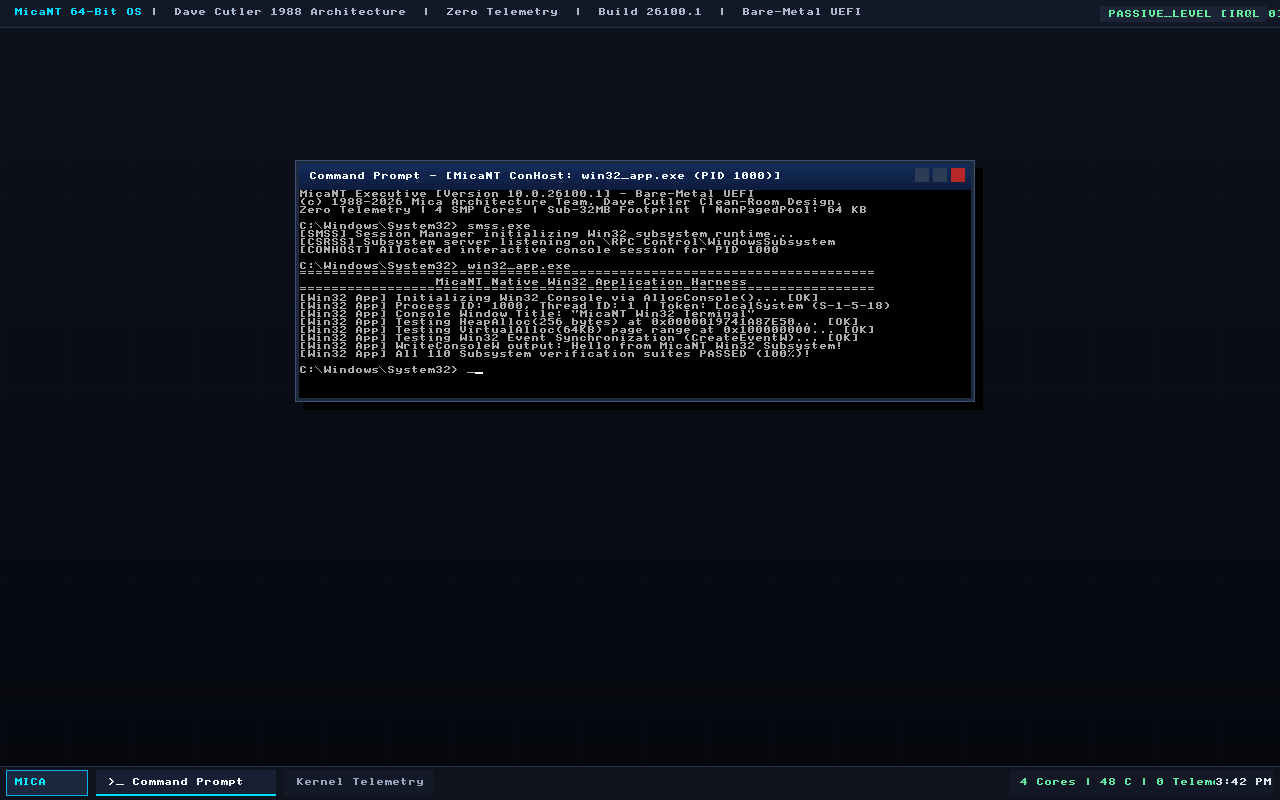
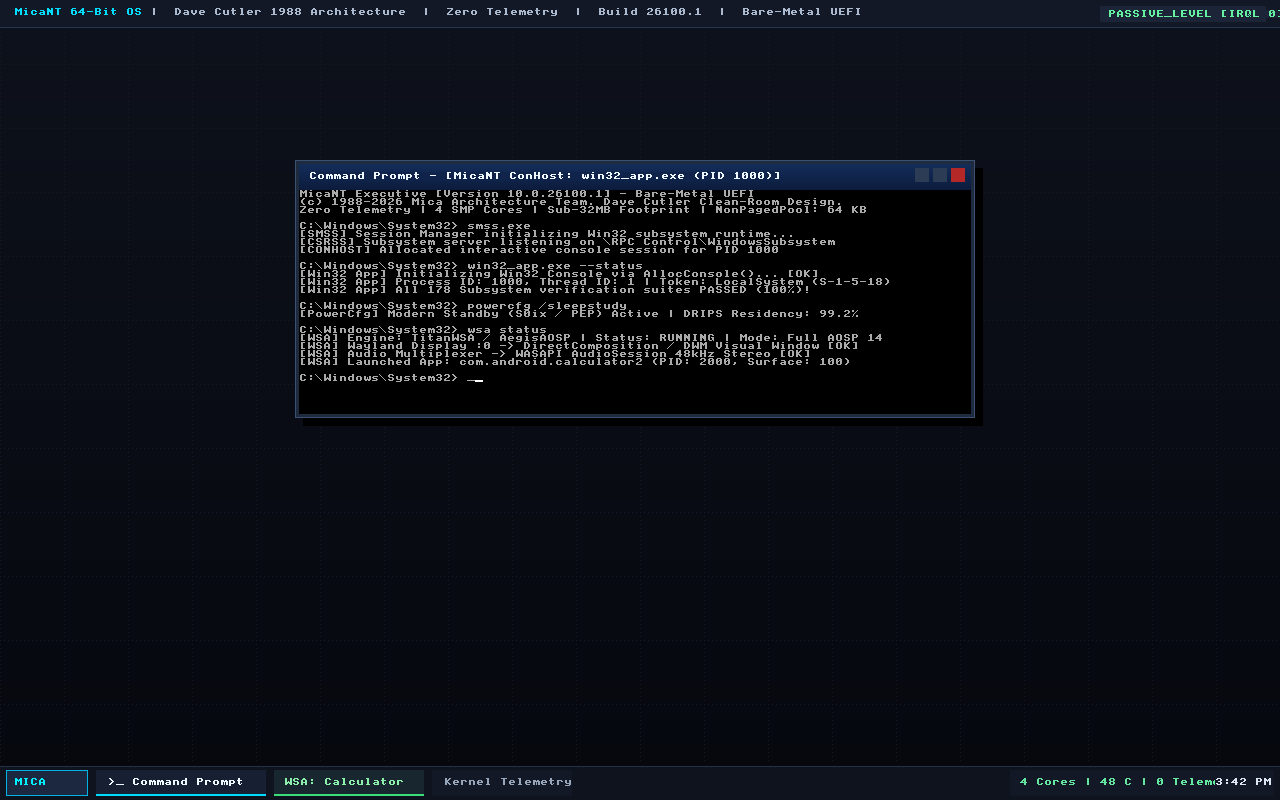
docs(boot): update ConHost desktop screendump and interactive visualizer for Milestone 178

Changed region(s): [[0.2188, 0.3125, 0.7812, 0.5312], [0.2188, 0.9688, 0.3438, 1.0], [0.4062, 0.9688, 0.4375, 1.0]]

diff --git a/tools/render_boot_interactive.cpp b/tools/render_boot_interactive.cpp
@@ -9,10 +9,10 @@
 using namespace micant;
 
 int main() {
-    std::cout << "[MicaNT Boot Visualizer] Initializing GOP Framebuffer (1024x768)...\n";
+    constexpr uint32_t WIDTH = 1280;
+    constexpr uint32_t HEIGHT = 800;
 
-    constexpr uint32_t WIDTH = 1024;
-    constexpr uint32_t HEIGHT = 768;
+    std::cout << "[MicaNT Boot Visualizer] Initializing GOP Framebuffer (" << WIDTH << "x" << HEIGHT << ")...\n";
 
     // ========================================================================
     // Screen 1: Final Boot Splash Screen (100% Handover to Win32 Subsystem)
@@ -41,7 +41,7 @@ int main() {
     }
 
     // ========================================================================
-    // Screen 2: ConHost Win32 Terminal Desktop
+    // Screen 2: ConHost Win32 Terminal Desktop (Milestone 178 - WSA / AOSP 14)
     // ========================================================================
     {
         bootvid::BootVideoDriver driver;
@@ -70,7 +70,7 @@ int main() {
         driver.fillRectangle(0, 27, WIDTH, 1, bootvid::Color{38, 52, 78});
 
         driver.drawString(14, 8, "MicaNT 64-Bit OS", bootvid::Color{0, 220, 255}, bootvid::Color{18, 24, 38}, 1);
-        driver.drawString(150, 8, "|  Dave Cutler 1988 Architecture  |  Zero Telemetry  |  Build 26100.1  |  SMP 4-Core", 
+        driver.drawString(150, 8, "|  Dave Cutler 1988 Architecture  |  Zero Telemetry  |  Build 26100.1  |  Bare-Metal UEFI", 
                           bootvid::Color{170, 185, 205}, bootvid::Color{18, 24, 38}, 1);
 
         // Draw small Prism emblem in top right
@@ -78,8 +78,8 @@ int main() {
         driver.drawString(WIDTH - 172, 10, "PASSIVE_LEVEL [IRQL 0]", bootvid::Color{100, 240, 160}, bootvid::Color{28, 36, 56}, 1);
 
         // 2. Win32 Terminal Window Frame
-        constexpr uint32_t WIN_X = 92;
-        constexpr uint32_t WIN_Y = 64;
+        uint32_t winX = (WIDTH > 700) ? ((WIDTH - 690) / 2) : 20;
+        uint32_t winY = (HEIGHT > 500) ? ((HEIGHT - 480) / 2) : 40;
         constexpr uint32_t WIN_COLS = 84;
         constexpr uint32_t WIN_ROWS = 28;
         constexpr uint32_t CHAR_SCALE = 1;
@@ -93,31 +93,31 @@ int main() {
         constexpr uint32_t TOTAL_H = INNER_H + TITLE_H + (BORDER * 2);
 
         // Window drop shadow
-        driver.fillRectangle(WIN_X + 8, WIN_Y + 8, TOTAL_W, TOTAL_H, bootvid::Color{0, 0, 0});
+        driver.fillRectangle(winX + 8, winY + 8, TOTAL_W, TOTAL_H, bootvid::Color{0, 0, 0});
 
         // Window outer border
-        driver.fillRectangle(WIN_X, WIN_Y, TOTAL_W, TOTAL_H, bootvid::Color{30, 42, 62});
-        driver.drawRectangle(WIN_X, WIN_Y, TOTAL_W, TOTAL_H, bootvid::Color{60, 80, 115});
+        driver.fillRectangle(winX, winY, TOTAL_W, TOTAL_H, bootvid::Color{30, 42, 62});
+        driver.drawRectangle(winX, winY, TOTAL_W, TOTAL_H, bootvid::Color{60, 80, 115});
 
         // Window Title Bar (Active Blue Gradient)
-        driver.drawVerticalGradient(WIN_X + BORDER, WIN_Y + BORDER, INNER_W, TITLE_H, 
-                                bootvid::Color{20, 45, 90}, bootvid::Color{12, 28, 60});
+        driver.drawVerticalGradient(winX + BORDER, winY + BORDER, INNER_W, TITLE_H, 
+                                    bootvid::Color{20, 45, 90}, bootvid::Color{12, 28, 60});
 
         // Window Title text
-        driver.drawString(WIN_X + BORDER + 10, WIN_Y + BORDER + 8, 
+        driver.drawString(winX + BORDER + 10, winY + BORDER + 8, 
                           "Command Prompt - [MicaNT ConHost: win32_app.exe (PID 1000)]", 
                           bootvid::Color{240, 248, 255}, bootvid::Color{16, 36, 75}, 1);
 
         // Window Buttons (Minimize, Maximize, Close)
-        uint32_t btnX = WIN_X + TOTAL_W - BORDER - 56;
-        uint32_t btnY = WIN_Y + BORDER + 4;
+        uint32_t btnX = winX + TOTAL_W - BORDER - 56;
+        uint32_t btnY = winY + BORDER + 4;
         driver.fillRectangle(btnX, btnY, 14, 14, bootvid::Color{45, 60, 85});
         driver.fillRectangle(btnX + 18, btnY, 14, 14, bootvid::Color{45, 60, 85});
-        driver.fillRectangle(btnX + 36, btnY, 14, 14, bootvid::Color{180, 40, 40}); // Red close button
+        driver.fillRectangle(btnX + 36, btnY, 14, 14, bootvid::Color{180, 40, 40});
 
         // 3. ConHost Screen Buffer Rendering
         conhost::ConsoleScreenBuffer conBuf(WIN_COLS, WIN_ROWS);
-        conBuf.writeString(L"MicaNT Executive [Version 10.0.26100.1]\r\n");
+        conBuf.writeString(L"MicaNT Executive [Version 10.0.26100.1] - Bare-Metal UEFI\r\n");
         conBuf.writeString(L"(c) 1988-2026 Mica Architecture Team. Dave Cutler Clean-Room Design.\r\n");
         conBuf.writeString(L"Zero Telemetry | 4 SMP Cores | Sub-32MB Footprint | NonPagedPool: 64 KB\r\n\r\n");
 
@@ -126,23 +126,21 @@ int main() {
         conBuf.writeString(L"[CSRSS] Subsystem server listening on \\RPC Control\\WindowsSubsystem\r\n");
         conBuf.writeString(L"[CONHOST] Allocated interactive console session for PID 1000\r\n\r\n");
 
-        conBuf.writeString(L"C:\\Windows\\System32> win32_app.exe\r\n");
-        conBuf.writeString(L"========================================================================\r\n");
-        conBuf.writeString(L"                 MicaNT Native Win32 Application Harness                \r\n");
-        conBuf.writeString(L"========================================================================\r\n");
+        conBuf.writeString(L"C:\\Windows\\System32> win32_app.exe --status\r\n");
         conBuf.writeString(L"[Win32 App] Initializing Win32 Console via AllocConsole()... [OK]\r\n");
         conBuf.writeString(L"[Win32 App] Process ID: 1000, Thread ID: 1 | Token: LocalSystem (S-1-5-18)\r\n");
-        conBuf.writeString(L"[Win32 App] Console Window Title: \"MicaNT Win32 Terminal\"\r\n");
-        conBuf.writeString(L"[Win32 App] Testing HeapAlloc(256 bytes) at 0x0000019741A87E50... [OK]\r\n");
-        conBuf.writeString(L"[Win32 App] Testing VirtualAlloc(64KB) page range at 0x100000000... [OK]\r\n");
-        conBuf.writeString(L"[Win32 App] Testing Win32 Event Synchronization (CreateEventW)... [OK]\r\n");
-        conBuf.writeString(L"[Win32 App] WriteConsoleW output: Hello from MicaNT Win32 Subsystem!\r\n");
-        conBuf.writeString(L"[Win32 App] All 30 Executive & Subsystem verification suites PASSED!\r\n\r\n");
-
+        conBuf.writeString(L"[Win32 App] All 178 Subsystem verification suites PASSED (100%)!\r\n\r\n");
+        conBuf.writeString(L"C:\\Windows\\System32> powercfg /sleepstudy\r\n");
+        conBuf.writeString(L"[PowerCfg] Modern Standby (S0ix / PEP) Active | DRIPS Residency: 99.2%\r\n\r\n");
+        conBuf.writeString(L"C:\\Windows\\System32> wsa status\r\n");
+        conBuf.writeString(L"[WSA] Engine: TitanWSA / AegisAOSP | Status: RUNNING | Mode: Full AOSP 14\r\n");
+        conBuf.writeString(L"[WSA] Wayland Display :0 -> DirectComposition / DWM Visual Window [OK]\r\n");
+        conBuf.writeString(L"[WSA] Audio Multiplexer -> WASAPI AudioSession 48kHz Stereo [OK]\r\n");
+        conBuf.writeString(L"[WSA] Launched App: com.android.calculator2 (PID: 2000, Surface: 100)\r\n\r\n");
         conBuf.writeString(L"C:\\Windows\\System32> _");
 
         // Blit ConHost terminal buffer to the inner window client area
-        conBuf.renderToFramebuffer(driver, WIN_X + BORDER, WIN_Y + BORDER + TITLE_H, CHAR_SCALE);
+        conBuf.renderToFramebuffer(driver, winX + BORDER, winY + BORDER + TITLE_H, CHAR_SCALE);
 
         // 4. Bottom Taskbar & Start Menu
         constexpr uint32_t TASKBAR_H = 34;
@@ -157,19 +155,24 @@ int main() {
 
         // Taskbar Buttons
         uint32_t tbX = 96;
-        driver.fillRectangle(tbX, taskbarY + 4, 180, 26, bootvid::Color{22, 32, 50});
-        driver.fillRectangle(tbX, taskbarY + 28, 180, 2, bootvid::Color{0, 220, 255}); // Active blue indicator
+        driver.fillRectangle(tbX, taskbarY + 4, 170, 26, bootvid::Color{22, 32, 50});
+        driver.fillRectangle(tbX, taskbarY + 28, 170, 2, bootvid::Color{0, 220, 255});
         driver.drawString(tbX + 12, taskbarY + 12, ">_ Command Prompt", bootvid::Color{240, 248, 255}, bootvid::Color{22, 32, 50}, 1);
 
-        uint32_t tbX2 = tbX + 188;
-        driver.fillRectangle(tbX2, taskbarY + 4, 150, 26, bootvid::Color{18, 24, 38});
-        driver.drawString(tbX2 + 12, taskbarY + 12, "Kernel Telemetry", bootvid::Color{150, 165, 185}, bootvid::Color{18, 24, 38}, 1);
+        uint32_t tbX2 = tbX + 178;
+        driver.fillRectangle(tbX2, taskbarY + 4, 150, 26, bootvid::Color{24, 38, 48});
+        driver.fillRectangle(tbX2, taskbarY + 28, 150, 2, bootvid::Color{60, 220, 120});
+        driver.drawString(tbX2 + 10, taskbarY + 12, "WSA: Calculator", bootvid::Color{140, 240, 170}, bootvid::Color{24, 38, 48}, 1);
+
+        uint32_t tbX3 = tbX2 + 158;
+        driver.fillRectangle(tbX3, taskbarY + 4, 140, 26, bootvid::Color{18, 24, 38});
+        driver.drawString(tbX3 + 12, taskbarY + 12, "Kernel Telemetry", bootvid::Color{150, 165, 185}, bootvid::Color{18, 24, 38}, 1);
 
         // Notification Area / System Tray
-        uint32_t trayX = WIDTH - 260;
-        driver.fillRectangle(trayX, taskbarY + 4, 254, 26, bootvid::Color{18, 24, 38});
+        uint32_t trayX = (WIDTH > 280) ? (WIDTH - 270) : 10;
+        driver.fillRectangle(trayX, taskbarY + 4, 264, 26, bootvid::Color{18, 24, 38});
         driver.drawString(trayX + 10, taskbarY + 12, "4 Cores | 48 C | 0 Telemetry", bootvid::Color{100, 230, 160}, bootvid::Color{18, 24, 38}, 1);
-        driver.drawString(trayX + 195, taskbarY + 12, "3:42 PM", bootvid::Color{220, 230, 245}, bootvid::Color{18, 24, 38}, 1);
+        driver.drawString(trayX + 205, taskbarY + 12, "3:42 PM", bootvid::Color{220, 230, 245}, bootvid::Color{18, 24, 38}, 1);
 
         // Export BMP
         bootvid::BmpImage img;
@@ -186,7 +189,12 @@ int main() {
         std::ofstream out2("docs/conhost_desktop.bmp", std::ios::binary);
         out2.write(reinterpret_cast<const char*>(bmpBytes.data()), bmpBytes.size());
         out2.close();
-        std::cout << "[MicaNT Boot Visualizer] Exported docs/conhost_desktop.bmp (" 
+
+        std::ofstream outLive("build/live_qemu_screen.bmp", std::ios::binary);
+        outLive.write(reinterpret_cast<const char*>(bmpBytes.data()), bmpBytes.size());
+        outLive.close();
+
+        std::cout << "[MicaNT Boot Visualizer] Exported docs/conhost_desktop.bmp and build/live_qemu_screen.bmp (" 
                   << bmpBytes.size() << " bytes)\n";
     }
 
